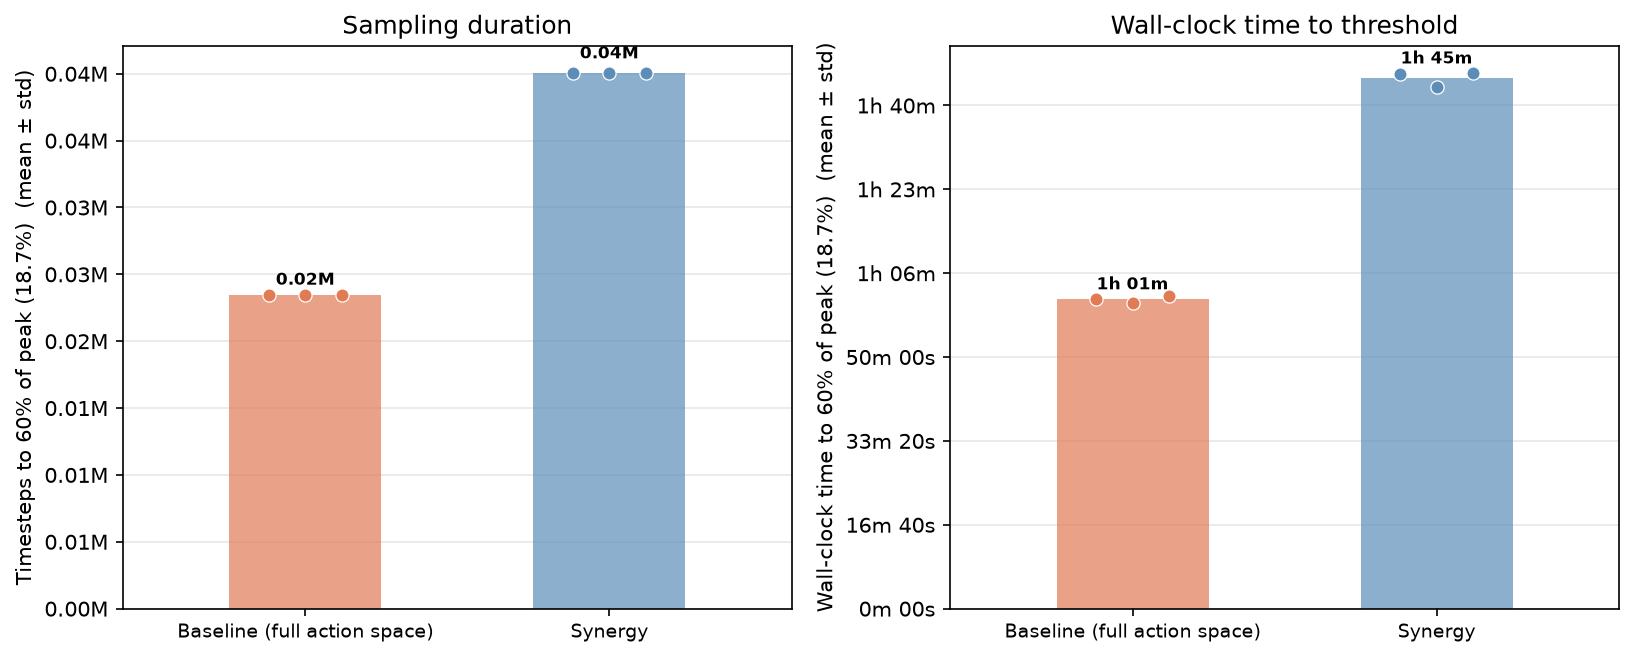
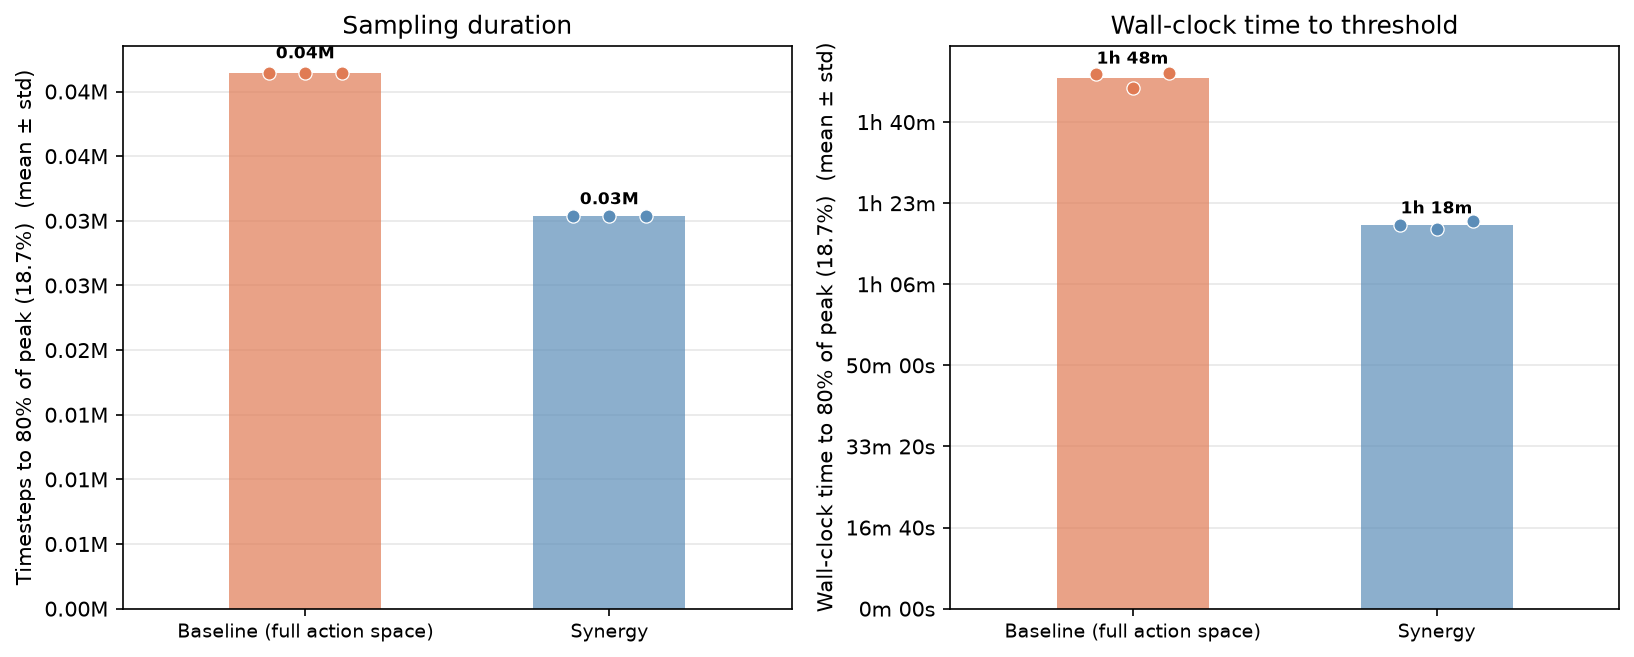
new plots

diff --git a/plot.py b/plot.py
@@ -7,11 +7,7 @@
 #       --out plots/comparison_egg.png
 #
 #   # wandb (pulls eval/success_rate + time/elapsed_sec from every run in a --wandb-group)
-#   python plot.py \
-#       --baseline-wandb-group big_block_synergy_K5 \
-#       --synergy-wandb-group egg_synergy_K5 \
-#       --synergy-label "Synergy (egg)" \
-#       --out plots/comparison.png
+#   python plot.py     --baseline-wandb-group full_smallblock     --synergy-wandb-group smallblock_synergy_K5     --synergy-label "Synergy"     --out plots/new/smallblock_comparison.png 
 
 import argparse
 import os
